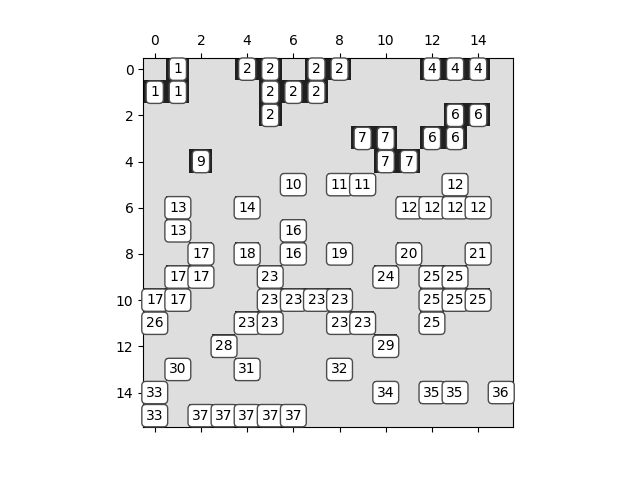
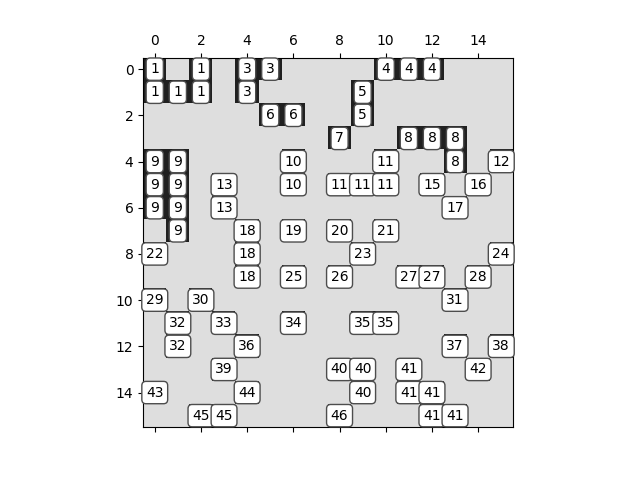
numpy-ify

Changed region(s): [[0.2188, 0.0938, 0.8125, 0.9062], [0.4375, 0.3125, 0.5, 0.375]]

diff --git a/network.py b/network.py
@@ -3,163 +3,110 @@ import matplotlib.pyplot as plt
 from matplotlib.colors import ListedColormap
 import numpy as np
 
-cmap = ListedColormap([[224, 224, 224], [34, 34, 34]])
+cmap = ListedColormap([[34, 34, 34], [224, 224, 224]])
 
 class Network:
 
-    def __init__(self, height, width, probability):
+    # if save is true, plots will be exported. Not useful for jupyter
+    def __init__(self, height, width, probability, save=False):
 
         self.height = height
         self.width = width
         self.probability = probability
+        self.save = save
 
-        self.network = [[1 if random.uniform(0, 1) <= self.probability else 0 for _ in range(self.width)] for _ in range(self.height)]
-        self.labeled_network = []   # Labeled network contains cluster names. Needs to be corrected for unions by the cluster-vector
-        self.N = [0]                # Cluster-Vector containing cluster-sizes. Negative values represent new cluster-names after a union
-
+        # True, False matrix with occupied spots, hstack and vstack put an unoccupied row/column on the left/top for simpler computation
+        self.network = np.hstack((np.ones((height + 1, 1)), np.vstack((np.ones((1, width)), np.random.uniform(0, 1, (height, width)))))) <= probability
+        # Matrix with cluster labels, 0 is none
+        self.labeled_network = np.zeros((height, width), dtype=np.uint32)   # Labeled network contains cluster names. Needs to be corrected for unions by the cluster-vector
+        # Map of cluster label to cluster size, negative size links to another cluster, height*width/2 is max cluster amount (checkerboard pattern)
+        self.N = np.zeros(int(np.ceil(height*width/2)), dtype=np.int32)                # Cluster-Vector containing cluster-sizes. Negative values represent new cluster-names after a union
+        #print(self.network)
 
 
     def __solve_label_conflict(self, conflicted_label):
-
-            # TODO: make method more efficient
-
-            m = self.N[conflicted_label]
-            if m < 0:
-                while True:
-                    r = -m
-                    m = self.N[r]
-                    if m >= 0:
-                        break
-                return r
-            else:
-                return conflicted_label
+        # TODO: make method more efficient
+        r = conflicted_label
+        m = self.N[conflicted_label]
+        if m < 0:
+            while m < 0:
+                r = -m
+                m = self.N[r]
+            #self.N[conflicted_label] = r  # updating causes problems, would need to update labeled network
+        return r
 
     def draw_raw_network(self, name):
-
         # draw network and save it
-        plt.matshow(self.network, cmap=cmap)
-        plt.savefig(name)
-        plt.clf()
+        plt.matshow(np.array([a[1:] for a in self.network[1:]]), cmap=cmap)
+        if self.save:
+            plt.savefig(f"out/{name}.png")
+            plt.clf()
 
 
     def draw_labeled_network(self, name):
+        #print(self.labeled_network)
+        #print('\n')
+        #print(self.N)
+        #quantity_measured = np.sum(self.N, where=self.N > 0)
+        #quantity_set = self.network.sum() # works since True == 1
+        #print('\n'+str(quantity_measured - quantity_set))
+        fig, ax = plt.subplots()
+        ax.matshow(np.array([a[1:] for a in self.network[1:]]), cmap=cmap, interpolation='none')
 
-        if self.labeled_network == []:
-            print('no labels found, run hoshen-kopelman first')
-
-        else:
-            print(self.labeled_network)
-            print('\n')
-            print(self.N)
-            quantity_measured = 0
-            for i in self.N:
-                if i > 0:
-                    quantity_measured += i
-
-            quantity_set = 0
-            for row in range(self.height):
-                for col in range(self.width):
-                    if self.network[row][col] != 0:
-                        quantity_set += 1
-
-            print('\n'+str(quantity_measured - quantity_set))
-            fig, ax = plt.subplots()
-            ax.matshow(self.labeled_network, cmap=cmap, interpolation='none')
-
-            for (i, j), z in np.ndenumerate(self.labeled_network):
-                if z != self.width * self.height:       # don't draw empty fields
-
-                    if self.N[z] < 0:                   # correct for unions, displayed by negative values in N
-                         z = self.__solve_label_conflict(z)
-                    ax.text(j, i, format(z), ha='center', va='center',
-                        bbox=dict(boxstyle='round', facecolor='white', edgecolor='0.3'))
-
-            plt.savefig(name)
+        for (i, j), z in np.ndenumerate(self.labeled_network):
+            if z != 0:       # don't draw empty fields
+                l = self.__solve_label_conflict(z)
+                ax.text(j, i, f'{l}', ha='center', va='center', color=(0.9, 0.9, 0.9))
+        if self.save:
+            plt.savefig(f'out/{name}.png')
             plt.clf()
 
 
 
     def hoshen_kopelman(self):
+        max_label = int(1)                       # current max cluster label, counting up (zero shall be excluded)
+        for row in range(1, self.height + 1): # first col/row is empty
 
-        max_label = 1                       # current max cluster label, counting up (zero shall be excluded)
+            for col in range(1, self.width + 1):
 
-        for row in range(self.height):
-            labeled_row = []
+                if self.network[row][col]:
+                    tile_above = self.network[row - 1][col]
+                    tile_left = self.network[row][col - 1]
 
-            for col in range(self.width):
-
-                if self.network[row][col] != 0:
-                    tile_above = 0 if row < 1 else self.network[row - 1][col]
-                    tile_left = 0 if col < 1 else self.network[row][col - 1]
-
-                    label_above = self.width * self.height if row < 1 else self.labeled_network[row - 1][col]
-                    label_left = self.width * self.height if col < 1 else labeled_row[col-1]
+                    label_above = self.labeled_network[row - 2][col-1]
+                    label_left = self.labeled_network[row-1][col-2]
 
 
-                    if tile_left == 0 and tile_above == 0:
-                        labeled_row.append(max_label)
+                    if not tile_left and not tile_above: # both neighbors empty -> new cluster
+                        self.labeled_network[row-1][col-1] = int(max_label)
+                        self.N[max_label] = 1
                         max_label += 1
-                        self.N.append(1)
+                    elif tile_left != tile_above: # one neighbor is empty and one is not -> append cell
+                        label = label_above if tile_above else label_left
+                        label = self.__solve_label_conflict(label)
+                        self.labeled_network[row-1][col-1] = label
+                        self.N[label] += 1     
+                    else: # both neighbors must be occupied -> conflict
 
-                    elif tile_left == 0 and tile_above == 1:
-                        if self.N[label_above] < 0:
-                            resolved_label = self.__solve_label_conflict(label_above)
-                            labeled_row.append(resolved_label)
-                            labeled_row[col-1] = resolved_label
-                            self.N[resolved_label] += 1
+                        resolved_label_left = self.__solve_label_conflict(label_left)
+                        resolved_label_above = self.__solve_label_conflict(label_above)
 
-                        else:
-                            labeled_row.append(label_above)
-                            self.N[label_above] += 1
-
-
-                    elif tile_left == 1 and tile_above == 0:
-
-                        if self.N[label_left] < 0:
-                            resolved_label = self.__solve_label_conflict(label_left)
-                            labeled_row.append(resolved_label)
-                            labeled_row[col-1] = resolved_label
-                            self.N[resolved_label] += 1
-                        else:
-                            labeled_row.append(label_left)
-                            self.N[label_left] += 1
-
-                    elif tile_left == 1 and tile_above == 1:
-
-                        resolved_label_left = label_left if self.N[label_left] > 0 else self.__solve_label_conflict(label_left)
-                        resolved_label_above = label_above if self.N[label_above] > 0 else self.__solve_label_conflict(label_above)
-
-                        if resolved_label_above < resolved_label_left:
-
-                            labeled_row.append(resolved_label_above)
-
-                            labeled_row[col-1] = resolved_label_left
-                            self.labeled_network[row-1][col] = resolved_label_above
-
-                            self.N[resolved_label_above] += 1
-                            self.N[resolved_label_above] += self.N[resolved_label_left]
-                            self.N[resolved_label_left] = - resolved_label_above
-
-                        elif label_above > label_left:
-
-                            labeled_row.append(resolved_label_left)
-
-                            labeled_row[col-1] = resolved_label_left
-                            self.labeled_network[row-1][col] = resolved_label_above
-
+                        if resolved_label_left == resolved_label_above: # left and above are the same -> append cell
+                            self.labeled_network[row-1][col-1] = resolved_label_left
                             self.N[resolved_label_left] += 1
-                            self.N[resolved_label_left] += self.N[resolved_label_above]
-                            self.N[resolved_label_above] = - resolved_label_left
+                            continue
 
-                        elif label_above == label_left:
-                            labeled_row.append(label_left)
-                            self.N[label_left] += 1
+                        label = resolved_label_left if resolved_label_left < resolved_label_above else resolved_label_above
+                        other_label = resolved_label_left if resolved_label_left > resolved_label_above else resolved_label_above
 
-
-                else:
-                    labeled_row.append(self.width * self.height)
-
-            self.labeled_network.append(labeled_row)
-
-
+                        #labeled_row[col-1] = resolved_label_left
+                        #self.labeled_network[row-1][col] = resolved_label_above
+                        self.labeled_network[row-2][col-1] = label
+                        self.labeled_network[row-1][col-2] = label
+                        self.labeled_network[row-1][col-1] = label
+                        self.N[label] += 1
+                        self.N[label] += self.N[other_label]
+                        self.N[other_label] = -int(label)
+            # end col loop
+        # end row loop                    
 

diff --git a/test.py b/test.py
@@ -1,0 +1,12 @@
+
+import numpy as np
+
+height = 4
+width = 2
+a = np.hstack((np.ones((height + 1, 1)), np.vstack((np.ones((1, width)), np.random.uniform(0, 1, (height, width))))))
+print(a)
+print(a <= 0.3)
+print(np.array([a1[1:] for a1 in a[1:]]))
+
+b = np.array([2, 0, 6, 9, -5, -1, 1])
+print(np.sum(b, where=b>0))

diff --git a/main.py b/main.py
@@ -1,7 +1,7 @@
 import network
 
 
-P = network.Network(16, 16, 0.3)
+P = network.Network(16, 16, 0.3, save=True)
 P.hoshen_kopelman()
 P.draw_raw_network('test')
 P.draw_labeled_network('labels')
